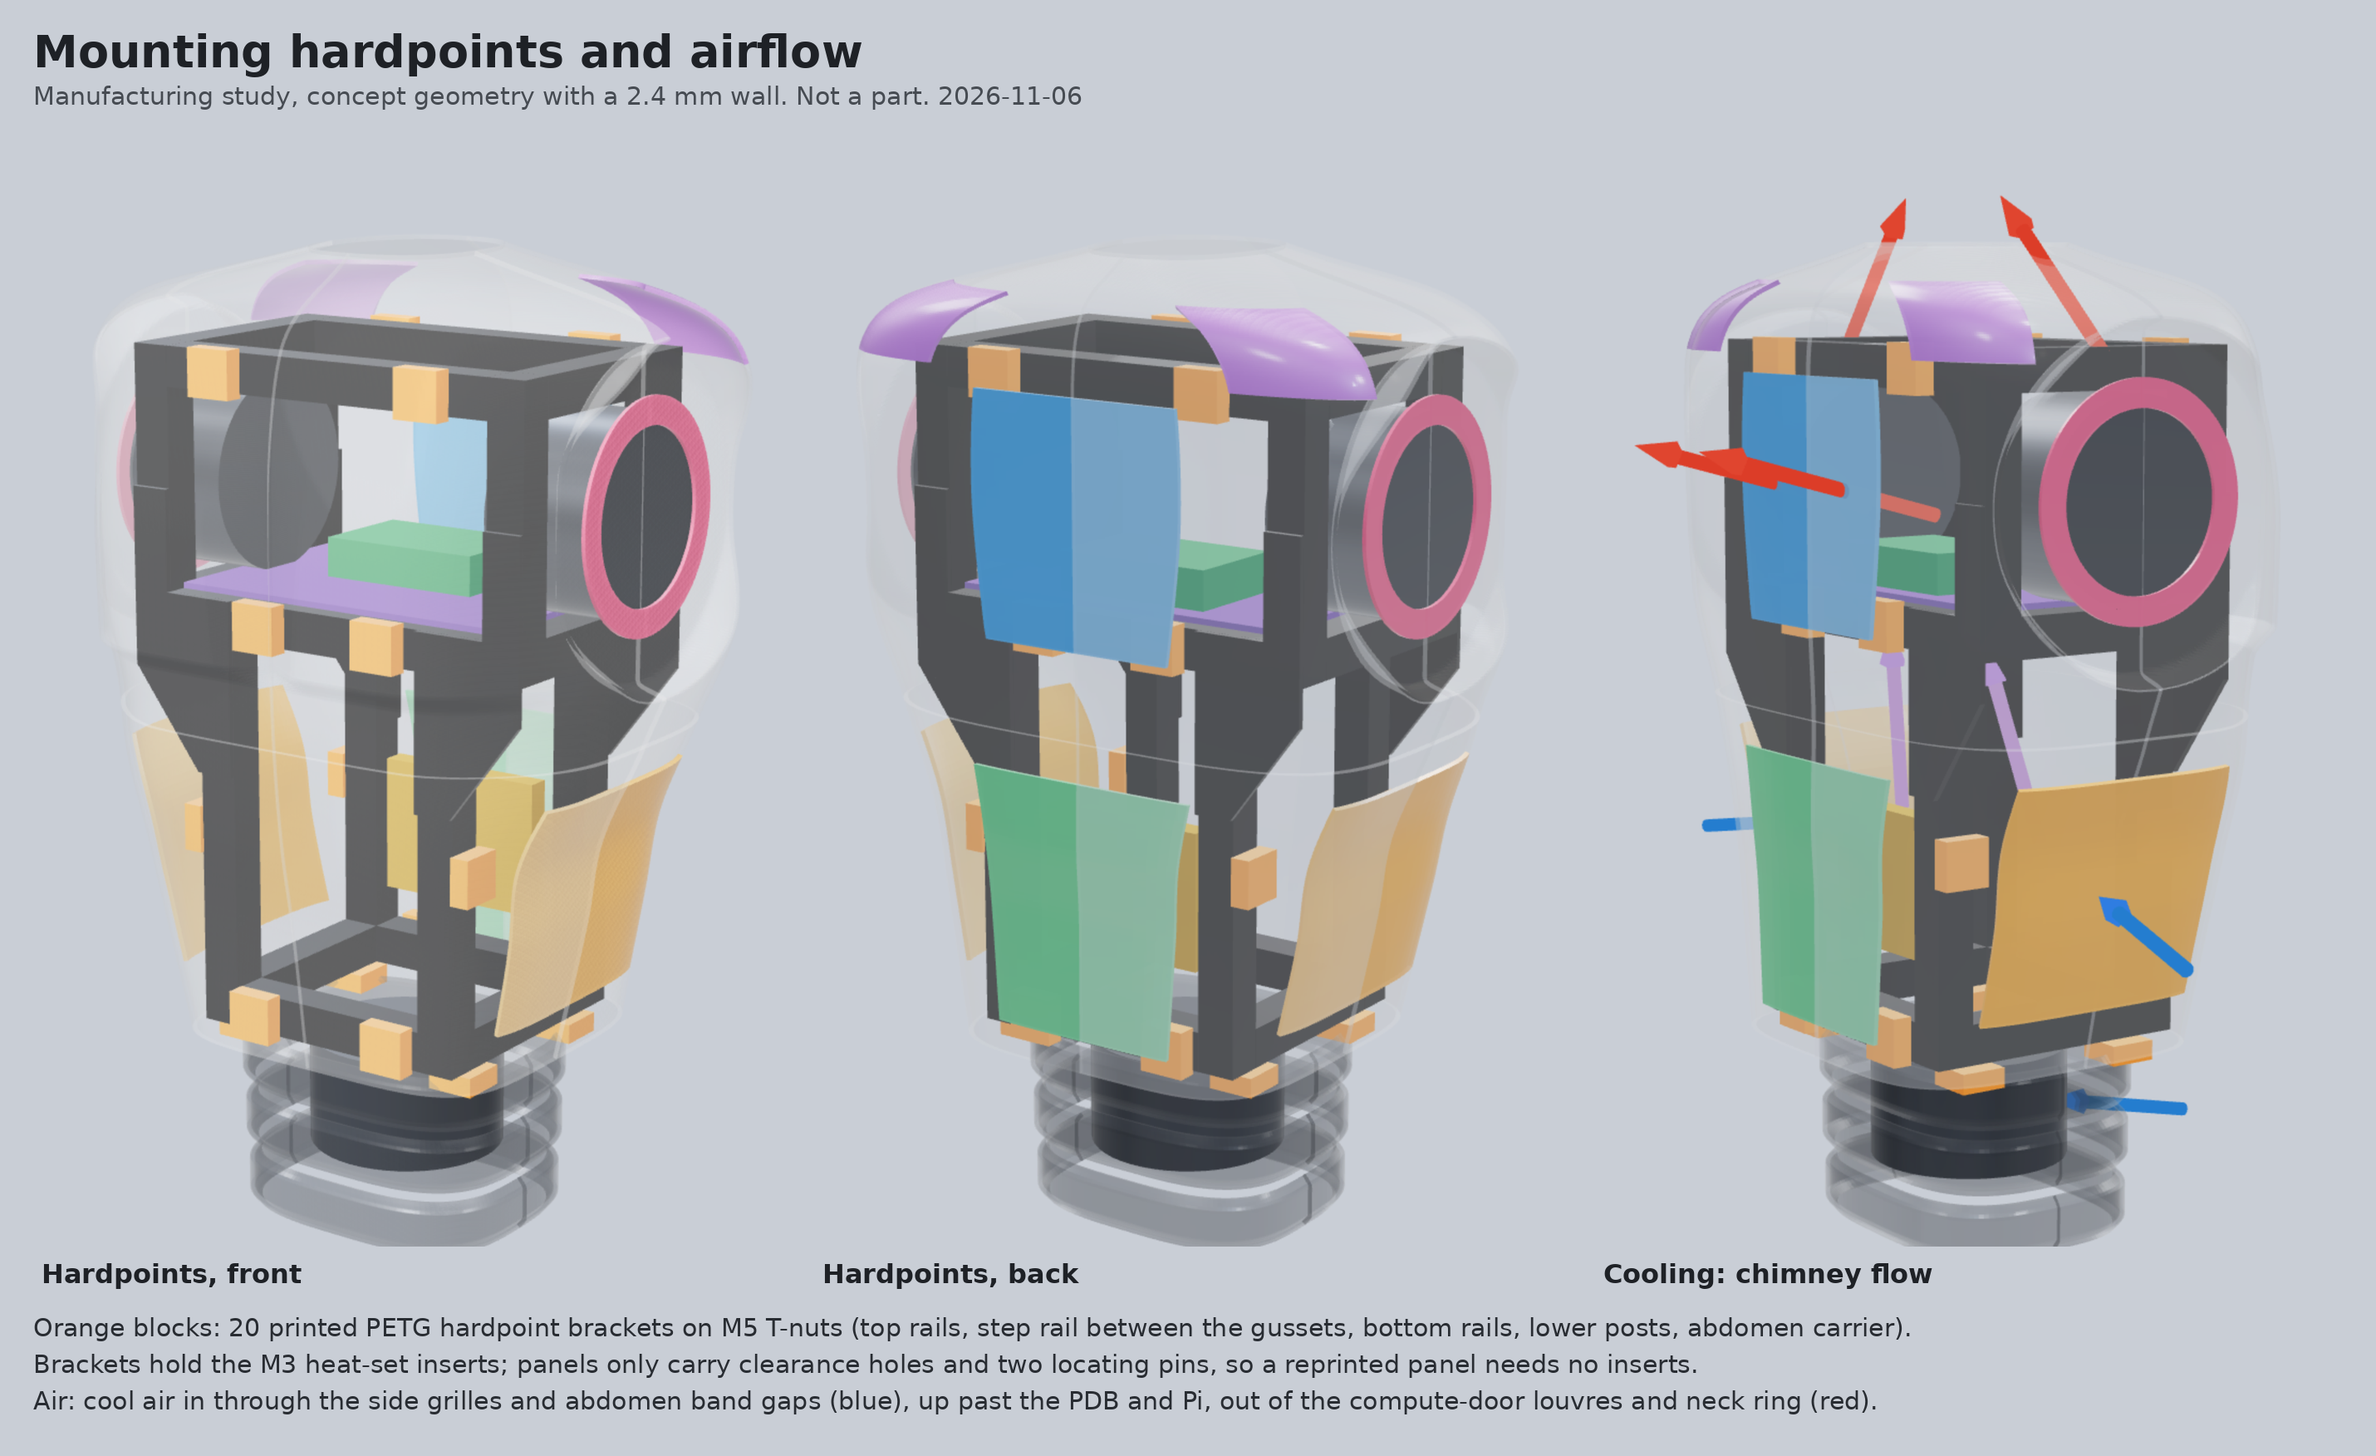
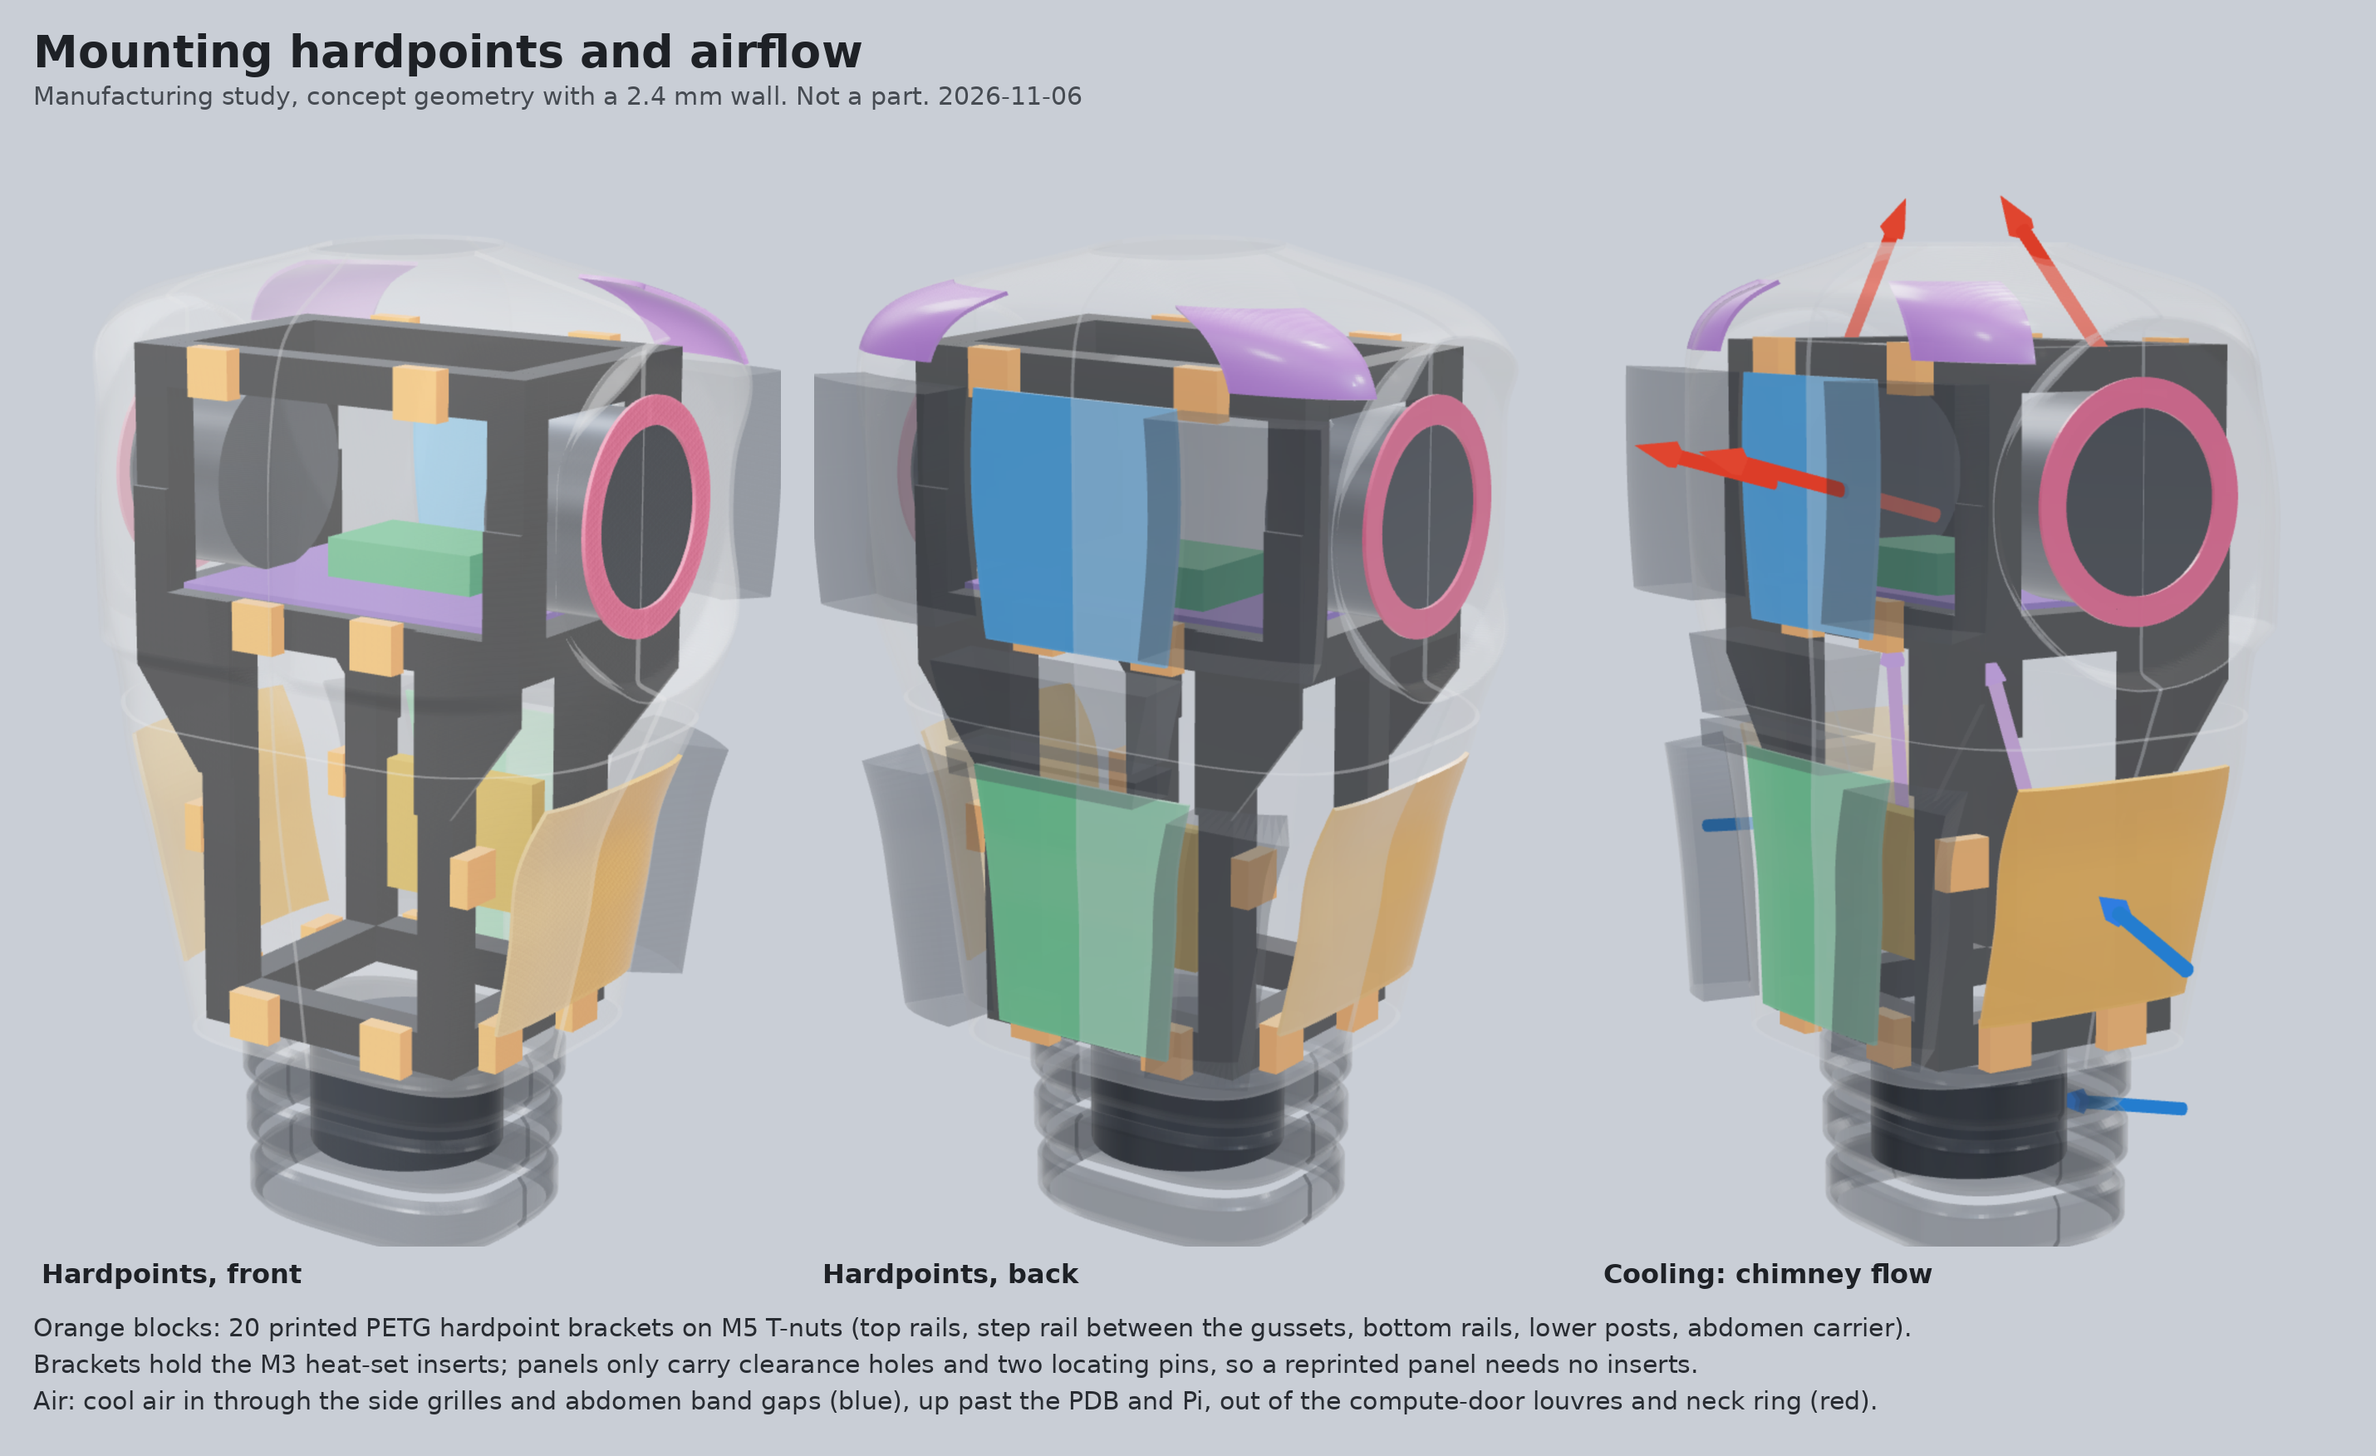
Body shell: spine pack crush pads (first pass), C9 crush coupon, refreshed sheets
Claude-Session: https://claude.ai/code/session_01754CrBjkeCbkEqxfqjnKtV

diff --git a/hardware/designs/body-shell/concept/generator/split.js b/hardware/designs/body-shell/concept/generator/split.js
@@ -17,7 +17,7 @@ scene.environment = new THREE.PMREMGenerator(renderer).fromScene(new RoomEnviron
 const root = new THREE.Group(); scene.add(root);
 const add = (m) => { m.castShadow = m.receiveShadow = true; root.add(m); return m; };
 const XR = MODE === 'mounts' || MODE === 'air';
-const COL = { U1: 0xeef0f3, U2: 0xe4e7ec, U3: 0xeef0f3, U4: 0xe4e7ec, D1: 0x4f9de0, D2: 0x63c08a, D3: 0xb07fd6, V1: 0xe8a34a, C: 0xd96a8a, A1: 0x34383e, A2: 0x34383e, A3: 0x34383e };
+const COL = { U1: 0xeef0f3, U2: 0xe4e7ec, U3: 0xeef0f3, U4: 0xe4e7ec, D1: 0x4f9de0, D2: 0x63c08a, D3: 0xb07fd6, V1: 0xe8a34a, C: 0xd96a8a, P: 0x3a3f47, A1: 0x34383e, A2: 0x34383e, A3: 0x34383e };
 const SPLITCOL = { L: 0, R: 1 };
 const mat = (c, o = 1) => new THREE.MeshPhysicalMaterial({ color: c, roughness: 0.4, clearcoat: 0.5, side: THREE.DoubleSide,
   transparent: o < 1, opacity: o, depthWrite: o >= 1 });
@@ -62,14 +62,14 @@ async function pieces(opacity = 1, explode = false) {
     const g = await load(`out/pieces/${r.name}.stl`); g.computeVertexNormals();
     const u = unitOf(r); let c = COL[u] ?? 0xffffff;
     if (r.kind === 'panel' && r.name.endsWith('_R')) c = new THREE.Color(c).offsetHSL(0, 0, -0.07).getHex();
-    const m = new THREE.Mesh(g, mat(c, r.kind === 'panel' || r.kind === 'band' ? opacity : Math.max(opacity, 0.9)));
+    const m = new THREE.Mesh(g, mat(c, r.kind === 'panel' || r.kind === 'band' || r.kind === 'pad' ? opacity : Math.max(opacity, 0.9)));
     // robot -> three axes
     m.matrixAutoUpdate = false;
     const M = new THREE.Matrix4().set(0, 1, 0, 0, 0, 0, 1, 0, 1, 0, 0, 0, 0, 0, 0, 1);
     if (explode) {
       g.computeBoundingBox(); const c0 = new THREE.Vector3(); g.boundingBox.getCenter(c0);
       const rad = new THREE.Vector3(c0.x - 4, c0.y, 0); rad.normalize();
-      const k = { door: 120, vent: 100, collar: 90, panel: 55, band: 45 }[r.kind];
+      const k = { door: 120, vent: 100, collar: 90, panel: 55, band: 45, pad: 150 }[r.kind];
       let dz = (c0.z - 1150) * 0.35 + (r.kind === 'door' ? 30 : 0);
       if (r.name.startsWith('hatch')) { dz += 40; }
       M.premultiply(new THREE.Matrix4().makeTranslation(rad.y * k, dz, rad.x * k));

diff --git a/hardware/designs/body-shell/concept/generator/split_check.py b/hardware/designs/body-shell/concept/generator/split_check.py
@@ -137,6 +137,17 @@ for s, nm in ((1, "L"), (-1, "R")):
 for s, nm in ((1, "L"), (-1, "R")):
     for h, hn in ((1, "front"), (-1, "back")):
         piece(f"collar_{nm}_{hn}", f"C collar {nm}", "collar", ring_half(43, 57, 2.0, s, h), "on 4 unused outboard M4 holes")
+# spine pack: TPU 95A crush pads standing 30 mm proud of the back (arm-thread tip-over recheck: ~30 mm beyond the shell),
+# flanking the doors so the doors open between them. Bolted through the shell to H2/H3/H4 rear on standoff posts.
+def pad(G, za, zb, ya, yb, name, unit):
+    i0, i1 = zi(G, za), zi(G, zb); ys = G[(i0 + i1) // 2, :, 1]
+    js = np.where((ys >= ya) & (ys <= yb))[0]
+    piece(name, unit, "pad", thicken(G[i0:i1 + 1, js.min():js.max() + 1], t=-30.0), "TPU 95A gyroid, 30 mm crush")
+for s_, nm in ((1, "L"), (-1, "R")):
+    lo, hi = sorted((s_ * 62, s_ * 135)); pad(UB, F0 + 215, F0 + 325, lo, hi, f"pad_upper_{nm}", "P spine pack")
+    lo, hi = sorted((s_ * 58, s_ * 95)); pad(LB, F0 + 15, F0 + 140, lo, hi, f"pad_lower_{nm}", "P spine pack")
+pad(LB, F0 + 145, F0 + 158, -60, 60, "pad_spine_lo", "P spine pack")
+pad(UB, F0 + 161, F0 + 200, -60, 60, "pad_spine_hi", "P spine pack")
 for b in (1, 2, 3):
     for h in ("front", "back"):
         piece(f"abdomen_{b}_{h}", f"A{b} abdomen band {b}", "band", thicken(grid(f"abdomen band {b} {h}"), x_axis=2.0))
@@ -204,23 +215,28 @@ for p in PIECES:
         sup_vol = sa * 1.0 * SUPPORT_FRAC
     else:
         ext, so, sa, sup_vol = m.extents, float("nan"), float("nan"), 0
-    g = (vol + sup_vol) * RHO
+    pad_ = p["kind"] == "pad"
+    dens = RHO * (0.25 if pad_ else 1.0)   # pads: TPU ~1.21 g/cm3, ~25% solid (2 walls + 10% gyroid; crush coupon C9 tunes it)
+    g = (vol + sup_vol) * dens
     hrs = ((vol + sup_vol) / RATE_HI / 3600, (vol + sup_vol) / RATE_LO / 3600)
+    if p["kind"] == "pad":                      # TPU 95A: ~2.5 to 4 mm^3/s, on the solid fraction only
+        hrs = (vol * 0.25 / 4.0 / 3600, vol * 0.25 / 2.5 / 3600)
     rows.append(dict(name=p["name"], unit=p["unit"], kind=p["kind"], note=p["note"], fits=fits,
                      watertight=bool(m.is_watertight), extents_robot=[round(float(x), 1) for x in m.extents],
                      print_xyz=[round(float(x), 1) for x in sorted(ext[:2], reverse=True)] + [round(float(ext[2]), 1)],
-                     part_g=round(vol * RHO, 1), support_g=round(sup_vol * RHO, 1),
+                     part_g=round(vol * dens, 1), support_g=round(sup_vol * RHO, 1),
                      outer_support_cm2=round(so / 100, 1) if fits else None,
                      hours=[round(h, 1) for h in hrs]))
 
 # doors and vent grilles fill openings cut from their parent panels (not cut in this study), so count them once
-cut = sum(r["part_g"] for r in rows if r["kind"] in ("door", "vent"))
+cut = sum(r["part_g"] for r in rows if r["kind"] in ("door", "vent", "pad"))
+pad_g = sum(r["part_g"] for r in rows if r["kind"] == "pad")
 tot_g = sum(r["part_g"] for r in rows) - cut; tot_s = sum(r["support_g"] for r in rows)
 tot_h = [round(sum(r["hours"][k] for r in rows), 1) for k in (0, 1)]
 json.dump(dict(wall_mm=WALL, usable_mm=USABLE, pieces=rows, total_part_g=round(tot_g), total_support_g=round(tot_s),
-               total_hours=tot_h), open(OUT / "split_report.json", "w"), indent=1)
+               total_hours=tot_h, spine_pack_g=round(pad_g)), open(OUT / "split_report.json", "w"), indent=1)
 print(f"{'piece':22s} {'unit':22s} fit  print XYxZ (mm)        part g  sup g  outer-sup cm2  hours")
 for r in rows:
     print(f"{r['name']:22s} {r['unit']:22s} {'yes' if r['fits'] else 'NO ':3s}  {str(r['print_xyz']):22s} {r['part_g']:7.1f} {r['support_g']:6.1f}  {str(r['outer_support_cm2']):>12s}  {r['hours'][0]}-{r['hours'][1]}")
 print("watertight:", all(r["watertight"] for r in rows), [r["name"] for r in rows if not r["watertight"]])
-print(f"TOTAL {len(rows)} pieces, {tot_g:.0f} g part (openings netted out) + {tot_s:.0f} g support, {tot_h[0]}-{tot_h[1]} h; all fit: {all(r['fits'] for r in rows)}")
+print(f"spine pack {pad_g:.0f} g TPU"); print(f"TOTAL {len(rows)} pieces, {tot_g:.0f} g part (openings netted out) + {tot_s:.0f} g support, {tot_h[0]}-{tot_h[1]} h; all fit: {all(r['fits'] for r in rows)}")

diff --git a/hardware/designs/body-shell/concept/generator/compose_mfg.py b/hardware/designs/body-shell/concept/generator/compose_mfg.py
@@ -9,10 +9,10 @@ sheet([(crop('sp_asm.png', C, w=900), 'Front: seams on the sternum and side'),
        (crop('sp_asm_back.png', C, w=900), 'Back: compute door (blue), power door (green)'),
        (crop('sp_explode.png', (500, 0, 2700, 2300), w=1150), 'Exploded: service units off the frame'),
        (crop('sp_explode_back.png', (500, 0, 2700, 2300), w=1150), 'Exploded, back')],
-      'Body shell split for the Bambu P2S: 24 prints, 15 service units', sub, 'SHELL_MFG_SPLIT.png',
+      f"Body shell split for the Bambu P2S: {len(rep['pieces'])} prints, {len({q['unit'] for q in rep['pieces']})} service units", sub, 'SHELL_MFG_SPLIT.png',
       notes=['White: chest panels, split L/R on the sternum and spine (print splits, bolted on inner splice plates). Purple: shoulder-top hatches.',
              'Orange: side vent grilles (swappable cooling variants). Pink: shoulder collars, split front/back so they come off with the arm on.',
-             'Dark: abdomen bands, front/back halves. Every piece fits 250 mm usable of the 256 mm cube (see SHELL_MFG_PLATES.png).'])
+             'Dark: abdomen bands, front/back halves; TPU spine pack pads on the back. Every piece fits 250 mm usable of the 256 mm cube (SHELL_MFG_PLATES.png).'])
 sheet([(crop('sp_mounts.png', C, w=900), 'Hardpoints, front'),
        (crop('sp_mounts_back.png', C, w=900), 'Hardpoints, back'),
        (crop('sp_air.png', C, w=900), 'Cooling: chimney flow')],
@@ -21,8 +21,8 @@ sheet([(crop('sp_mounts.png', C, w=900), 'Hardpoints, front'),
              'Brackets hold the M3 heat-set inserts; panels only carry clearance holes and two locating pins, so a reprinted panel needs no inserts.',
              'Air: cool air in through the side grilles and abdomen band gaps (blue), up past the PDB and Pi, out of the compute-door louvres and neck ring (red).'])
 sheet([(crop('sp_plates.png', (0, 0, 3200, 2400), w=2200), 'Each print in its chosen orientation inside a 256 mm P2S volume')],
-      'Print plates: all 24 pieces', sub, 'SHELL_MFG_PLATES.png',
-      notes=[f"Total about {rep['total_part_g']} g PETG plus {rep['total_support_g']} g support, {rep['total_hours'][0]} to {rep['total_hours'][1]} h of printing (estimate, not a slice).",
+      f"Print plates: all {len(rep['pieces'])} pieces", sub, 'SHELL_MFG_PLATES.png',
+      notes=[f"Shell about {rep['total_part_g']} g PETG, spine pack {rep['spine_pack_g']} g TPU, plus {rep['total_support_g']} g support, {rep['total_hours'][0]} to {rep['total_hours'][1]} h of printing (estimate, not a slice).",
              'Orientation picked by script: fits the bed, then least support under the visible outer face. Tallest print: upper back, 246 mm of 250.'])
 SC = (1000, 150, 2200, 1450)
 sheet([(crop('fix_side_base.png', SC, w=700), 'Locked baseline: back on the frame'),
@@ -33,3 +33,11 @@ sheet([(crop('fix_side_base.png', SC, w=700), 'Locked baseline: back on the fram
       notes=['Baseline: lower-box rear corners come through the wall by up to 11 mm at the frame bottom; under 1 mm at the gusset corners; under 8 mm across the back.',
              'Fix: back 10 mm deeper (20 mm at the frame bottom), bottom 4 mm wider per side and slightly squarer. Front, shoulders, socket and waist unchanged.',
              'Result: 5.6 mm at the very bottom corners, 7.8 mm at the gusset corners, 9 to 17 mm elsewhere (frame_clearance.py). Chest depth 212 -> 222 mm.'])
+
+sheet([(crop('pk_back.png', (600, 0, 2600, 2400), w=900), 'Back 3/4: pads flank the doors'),
+       (crop('pk_back_ortho.png', (900, 100, 2300, 2300), w=760), 'Back'),
+       (crop('pk_side.png', (900, 100, 2300, 2300), w=760), 'Side: 30 mm proud of the shell')],
+      'Spine pack: back crush pads (first pass, function only)', sub, 'SHELL_MFG_SPINEPACK.png',
+      notes=['The frame needs ~30 mm of crush behind the shell in a backward fall. TPU 95A, 2 walls + ~10% gyroid; crush coupon C9 tunes it.',
+             f"Six pieces, about {rep['spine_pack_g']} g. They bolt through the shell to the H2/H3/H4 rear brackets on standoff posts; D1 and D2 open between them.",
+             'Styling (armour plates, chamfers) comes in SolidWorks. Lighter option: EVA foam blocks in a thin TPU skin, about 60 g.'])

diff --git a/hardware/designs/body-shell/manufacturing/README.md b/hardware/designs/body-shell/manufacturing/README.md
@@ -12,6 +12,7 @@ Evidence labels follow the project convention: **script check** (ran here, repro
 | `SHELL_MFG_PLATES.png` | All 24 prints, each in its chosen orientation inside a 256 mm P2S volume |
 | `SHELL_MFG_MOUNTS.png` | X-ray: the 20 hardpoint brackets on the frame, and the cooling airflow path |
 | `SHELL_MFG_BACKFIX.png` | The frame clash found in the baseline and the fix |
+| `SHELL_MFG_SPINEPACK.png` | Back crush pads (first pass) |
 | `split_report.json` | Per-piece print size, mass, support and time estimates |
 | `frame_clearance.json` | Frame-to-shell clearance, row by row |
 
@@ -178,13 +179,17 @@ Each stage is cheaper than the next. Nothing goes to a full panel until the earl
 | C6 | Door on a frame coupon, dropped 0.75 m onto plywood, 10 times | Door stays shut; magnets stay seated |
 | C7 | Wall coupons at 2.0, 2.4 and 3.0 mm, 1 kg drop weight | Pick the wall thickness |
 | C8 | Grille sample: free area and a finger probe | ≥ 50% open, slots ≤ 6 mm |
+| C9 | TPU pad crush: 60 × 60 × 30 blocks at 3 infills, weight drop or slow press | Absorbs the per-pad share of the back-fall energy within 25 mm |
 
 ## 9. Open items
 
 **Arm-thread tip-over recheck (main 022da44):** with only 10 mm of stop the frame yields (side 400 MPa, back 584, limit 145). It holds
 with about 30 mm of stop at the side and 40 mm at the back. The side gets there because the arm stands over 100 mm proud and crushes.
-The back does not: **the shell needs a back crush pad (or hip guard) giving about 30 mm of crush beyond the shell.** Plan: a swappable
-TPU 95A gyroid "spine pack" on the H2/H3/H4 rear hardpoints, styled as back armour, kept clear of the D1 and D2 doors. One-face
+The back does not: **the shell needs a back crush pad (or hip guard) giving about 30 mm of crush beyond the shell.** First pass modelled (`SHELL_MFG_SPINEPACK.png`): six TPU 95A pads standing 30 mm
+proud of the back, flanking D1 and D2 so the doors open between them, bolted through the shell to H2/H3/H4 rear on standoff posts so a
+fall loads the brackets, not the shell wall. About 333 g at 2 walls + ~10% gyroid (coupon C9 tunes it); EVA foam in a thin TPU
+skin is a ~60 g alternative. Extents in the torso frame: upper pads |X| 58–147, Y 368–481; lower pads |X| 54–127, Y 166–295;
+spine bridges |X| < 63, Y 298–355; all Z −77 to −124. Styling comes in SolidWorks. One-face
 loading is harsher than a real fall, but it is the sizing target.
 Hardpoints checked in CAD: H1, H2, H4, H5, C and H3 free. **H3 rear bracket stays below Y 374 (torso frame)**: the Pi sits above it and its
 rear ports need plug room in the gap behind D1. H6 needs a check on the robot (waist adapter not in CAD).
